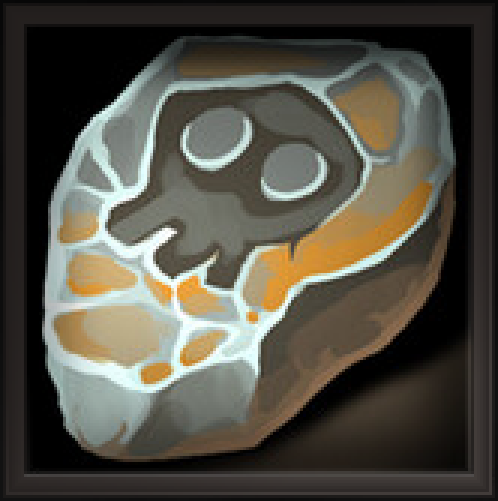
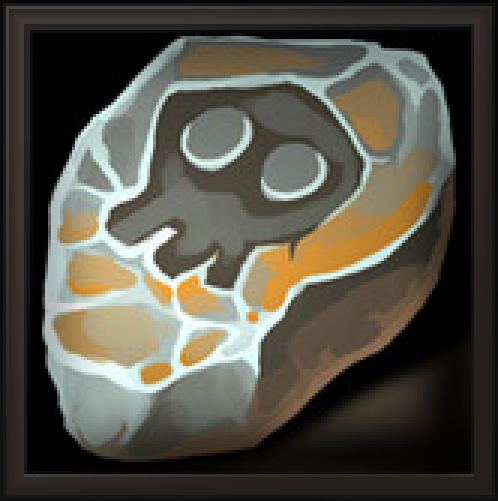
sharp = deep params with square corners; add sharp_bottom variant and --light flag

diff --git a/tools/style_frame.py b/tools/style_frame.py
@@ -43,23 +43,28 @@ VARIANTS = {
     # «утопленный» слот: бортик узкий, градиент мягкий
     "inset": dict(rim=4.0, inset=1.0, radius=8.0, bevel=0.55, shadow=1.3,
                   deep=20.0, gloss=0.14, drop=0.25, lip=0.24, tone=0.85),
-    # прямые углы + свет снизу: верх приглушён, глубина читается снизу
+    # то же, что deep, но с прямыми углами (свет сверху-слева, как в deep)
     "sharp": dict(rim=5.5, inset=1.5, radius=0.0, bevel=0.85, shadow=1.0,
-                  deep=14.0, gloss=0.22, drop=0.55, lip=0.30, tone=1.05,
-                  light="bottom"),
+                  deep=14.0, gloss=0.22, drop=0.55, lip=0.38, tone=1.05,
+                  light="top"),
+    # прямые углы + свет снизу (тёмный верх, глубина читается снизу)
+    "sharp_bottom": dict(rim=5.5, inset=1.5, radius=0.0, bevel=0.85, shadow=1.0,
+                         deep=14.0, gloss=0.22, drop=0.55, lip=0.30, tone=1.05,
+                         light="bottom"),
 }
 
 # параметры, которые можно переопределить из командной строки
 OVERRIDES = ("rim", "inset", "radius", "bevel", "shadow", "deep", "gloss",
-             "drop", "lip", "tone")
+             "drop", "lip", "tone", "light")
 
 
 def params(variant: str = "deep", **kw) -> dict:
     """Параметры варианта + переопределения (например radius=0)."""
     p = dict(VARIANTS[variant])
     for k, v in kw.items():
-        if v is not None and k in OVERRIDES:
-            p[k] = float(v)
+        if v is None or k not in OVERRIDES:
+            continue
+        p[k] = v if k == "light" else float(v)
     if p["radius"] <= 0.05:       # прямые углы: без скругления
         p["radius"] = 0.0
     return p
@@ -183,6 +188,8 @@ def main(argv=None) -> int:
     ap.add_argument("--scale", type=float, default=1.0)
     ap.add_argument("--radius", type=float, default=None,
                     help="радиус скругления, 0 = прямые углы")
+    ap.add_argument("--light", default=None, choices=["top", "bottom"],
+                    help="источник света: top (по умолчанию) или bottom")
     args = ap.parse_args(argv)
 
     files = args.images or D.all_sheets()
@@ -194,7 +201,7 @@ def main(argv=None) -> int:
         out_rel = os.path.join(args.out, os.path.splitext(rel)[0] + ".jpg")
         out = out_rel if os.path.isabs(args.out) else os.path.join(ROOT, out_rel)
         k = style_sheet(f, out, variant=args.variant, quality=args.quality,
-                        scale=args.scale, radius=args.radius)
+                        scale=args.scale, radius=args.radius, light=args.light)
         print(f"[{n}/{len(files)}] {rel}  рамок {k}  -> {out_rel}")
     return 0
 

diff --git a/tools/README.md b/tools/README.md
@@ -83,8 +83,9 @@ python3 tools/cut_icons.py --style sharp --radius 0 --n 1 --out cutouts_styled
 (без скругления). Радиус скругления можно задать вручную: `--radius 0` —
 прямые углы.
 
-У `sharp` источник света снизу (`light="bottom"`): блик и подсветка борта идут
-по нижней/правой кромке, верхняя остаётся тёмной — глубина читается снизу.
+`sharp` — это `deep` (свет сверху-слева) с прямыми углами; `sharp_bottom` —
+то же, но свет снизу (`light="bottom"`: верхняя кромка тёмная, глубина
+читается снизу). Источник света можно задать и вручную: `--light bottom`.
 Внешняя часть при `radius = 0` считается по L∞-метрике (`sharp_outside`),
 поэтому прямые углы сохраняются и у внешней кромки борта.
 
